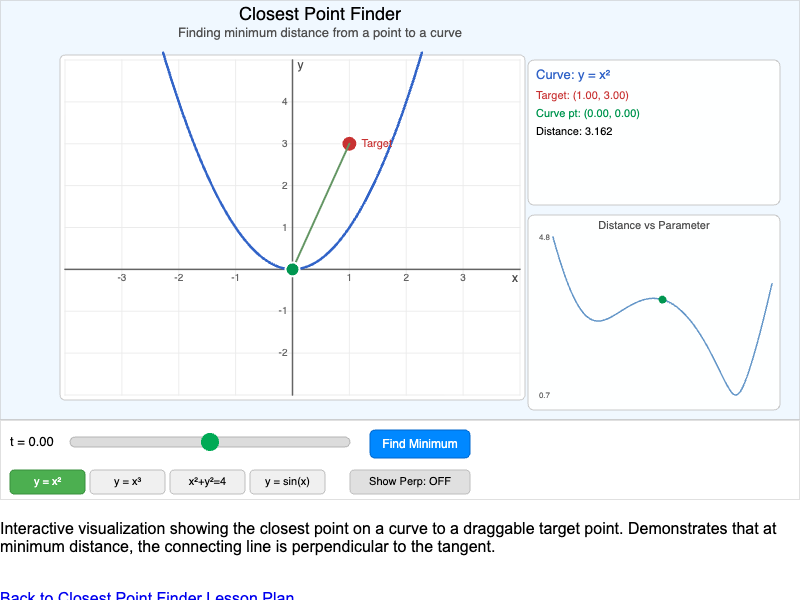
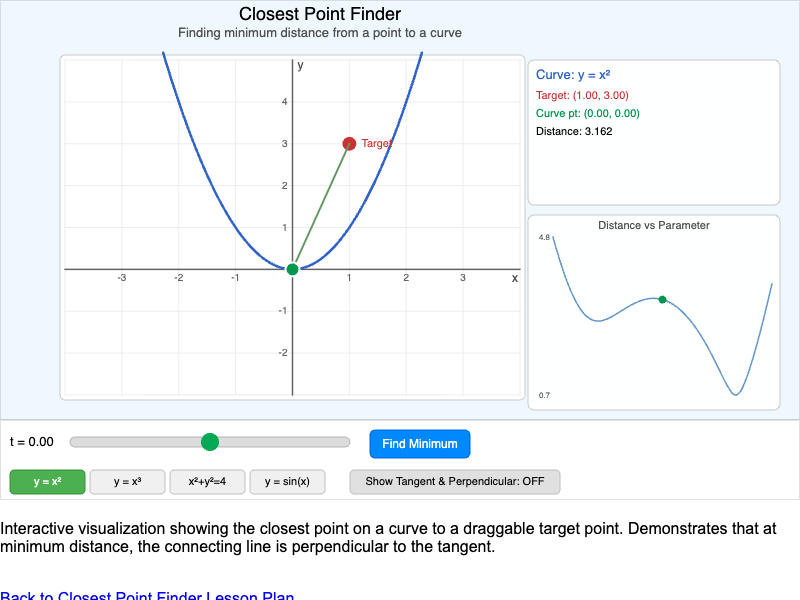
changed the button label to be more clear

Changed region(s): [[0.4375, 0.78, 0.7188, 0.84]]

diff --git a/docs/sims/closest-point-finder/closest-point-finder.js b/docs/sims/closest-point-finder/closest-point-finder.js
@@ -556,8 +556,8 @@ function drawControls() {
     text(curves[i].name, bx + curveBtnW/2, curveBtnY + 12);
   }
 
-  // Show Perpendicular toggle
-  let toggleW = 120;
+  // Show Tangent & Perpendicular Check toggle
+  let toggleW = 210;
   let toggleH = 24;
 
   fill(showPerpendicular ? '#4CAF50' : '#e0e0e0');
@@ -569,7 +569,7 @@ function drawControls() {
   noStroke();
   textAlign(CENTER, CENTER);
   textSize(11);
-  text('Show Perp: ' + (showPerpendicular ? 'ON' : 'OFF'), toggleX + toggleW/2, toggleY + toggleH/2);
+  text('Show Tangent & Perpendicular: ' + (showPerpendicular ? 'ON' : 'OFF'), toggleX + toggleW/2, toggleY + toggleH/2);
 }
 
 // Curve functions
@@ -726,7 +726,7 @@ function mousePressed() {
   }
 
   // Check perpendicular toggle
-  let toggleW = 120;
+  let toggleW = 210;
   let toggleH = 24;
   if (mouseX >= toggleX && mouseX <= toggleX + toggleW &&
       mouseY >= toggleY && mouseY <= toggleY + toggleH) {

diff --git a/logs/closest-point-finder.md b/logs/closest-point-finder.md
@@ -22,3 +22,11 @@
 - Root cause: `TWO_PI` is a p5.js global constant only available after p5 instance creation. At script parse time it is `undefined`, making `paramMax` for the circle curve `NaN`, which cascades through all `map()` and `constrain()` calls.
 - Fix: Replaced `TWO_PI` with `2 * Math.PI` (always available at parse time)
 - Screenshot recaptured after fix
+
+## UI Label Update: 2026-02-05
+
+- Time: 2026-02-05 08:58:45
+- Change: Renamed toggle button from "Show Perp: ON/OFF" to "Show Tangent & Perpendicular: ON/OFF"
+- Reason: Original label was cryptic abbreviation; new label clearly describes both features the toggle controls (tangent line drawing and perpendicularity check)
+- Button width increased from 120px to 210px to accommodate the longer label
+- Updated in both `drawControls()` (rendering) and `mousePressed()` (hit detection)
